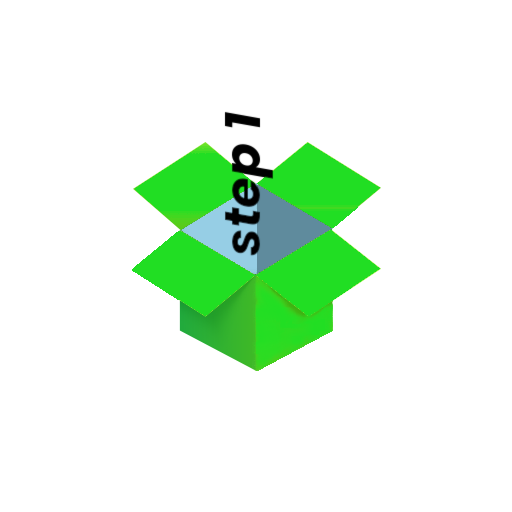
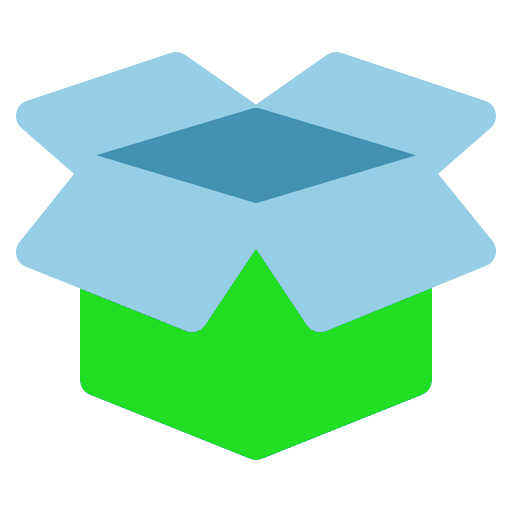
upgrade main page

diff --git a/pmef/src/components/MainPage.vue b/pmef/src/components/MainPage.vue
@@ -20,7 +20,7 @@
           <img
             class="h-48 w-full object-contain md:h-full md:w-48"
             src="../assets/images/question_circle_icon.png"
-            alt="Man looking at item at a store"
+            alt="Question mark image"
           />
         </div>
         <div class="p-8 grow">
@@ -72,8 +72,8 @@
           <div class="text-center font-mono font-bold text-2xl">Step 1</div>
           <img
             class="h-48 w-full object-contain md:h-full md:w-48"
-            src="../assets/images/step1_v2.png"
-            alt="Man looking at item at a store"
+            src="../assets/images/step1.png"
+            alt="Open box image"
           />
         </div>
       </div>
@@ -97,8 +97,8 @@
           <div class="text-center font-mono font-bold text-2xl">Step 2</div>
           <img
             class="h-48 w-full object-contain md:h-full md:w-48"
-            src="../assets/images/step1_v2.png"
-            alt="Man looking at item at a store"
+            src="../assets/images/step2.png"
+            alt="Box with padlock image"
           />
         </div>
         <div class="p-8 grow">
@@ -158,7 +158,7 @@
             <div class="mt-4 text-center">
               Fill out the form with information about the package (e.g. package
               name or package contents). Save this information using the button.
-              At this point, the package will be saved to the system and QR code
+              At this point, package will be saved to the system and QR code
               will be generated, which you can download and print.
             </div>
           </div>
@@ -167,8 +167,85 @@
           <div class="text-center font-mono font-bold text-2xl">Step 3</div>
           <img
             class="h-48 w-full object-contain md:h-full md:w-48"
-            src="../assets/images/step1_v2.png"
-            alt="Man looking at item at a store"
+            src="../assets/images/step3.png"
+            alt="Printer image"
+          />
+        </div>
+      </div>
+    </div>
+    <!-- card step4 -->
+    <div
+      class="
+        max-w-screen-lg
+        mx-auto
+        bg-white
+        rounded-xl
+        border-lime-700 border
+        overflow-hidden
+        mb-4
+        hover:bg-green-100
+        duration-500
+      "
+    >
+      <div class="md:flex items-center">
+        <div class="md:shrink-0 px-4 py-4">
+          <div class="text-center font-mono font-bold text-2xl">Step 4</div>
+          <img
+            class="h-48 w-full object-contain md:h-full md:w-48"
+            src="../assets/images/step4.png"
+            alt="Box with QR code image"
+          />
+        </div>
+        <div class="p-8 grow">
+          <div>
+            <div
+              class="uppercase tracking-wide text-4xl font-semibold text-center"
+            >
+              QR code
+            </div>
+            <div class="mt-4 text-center">
+              Now you can glue printed QR code to your package.
+            </div>
+          </div>
+        </div>
+      </div>
+    </div>
+    <!-- card step5 -->
+    <div
+      class="
+        max-w-screen-lg
+        mx-auto
+        bg-white
+        rounded-xl
+        border-lime-700 border
+        overflow-hidden
+        mb-20
+        hover:bg-green-100
+        duration-500
+      "
+    >
+      <div class="md:flex items-center">
+        <div class="p-8 grow">
+          <div>
+            <div
+              class="uppercase tracking-wide text-4xl font-semibold text-center"
+            >
+              Finish
+            </div>
+            <div class="mt-4 text-center">
+              Now you can put your package away. Thanks to the QR code, you
+              always have access to information about the package (its
+              contents). All you have to do is scan code with your phone and
+              get information about package.
+            </div>
+          </div>
+        </div>
+        <div class="md:shrink-0 px-4 py-4">
+          <div class="text-center font-mono font-bold text-2xl">Step 5</div>
+          <img
+            class="h-48 w-full object-contain md:h-full md:w-48"
+            src="../assets/images/step5.png"
+            alt="Truck image"
           />
         </div>
       </div>
